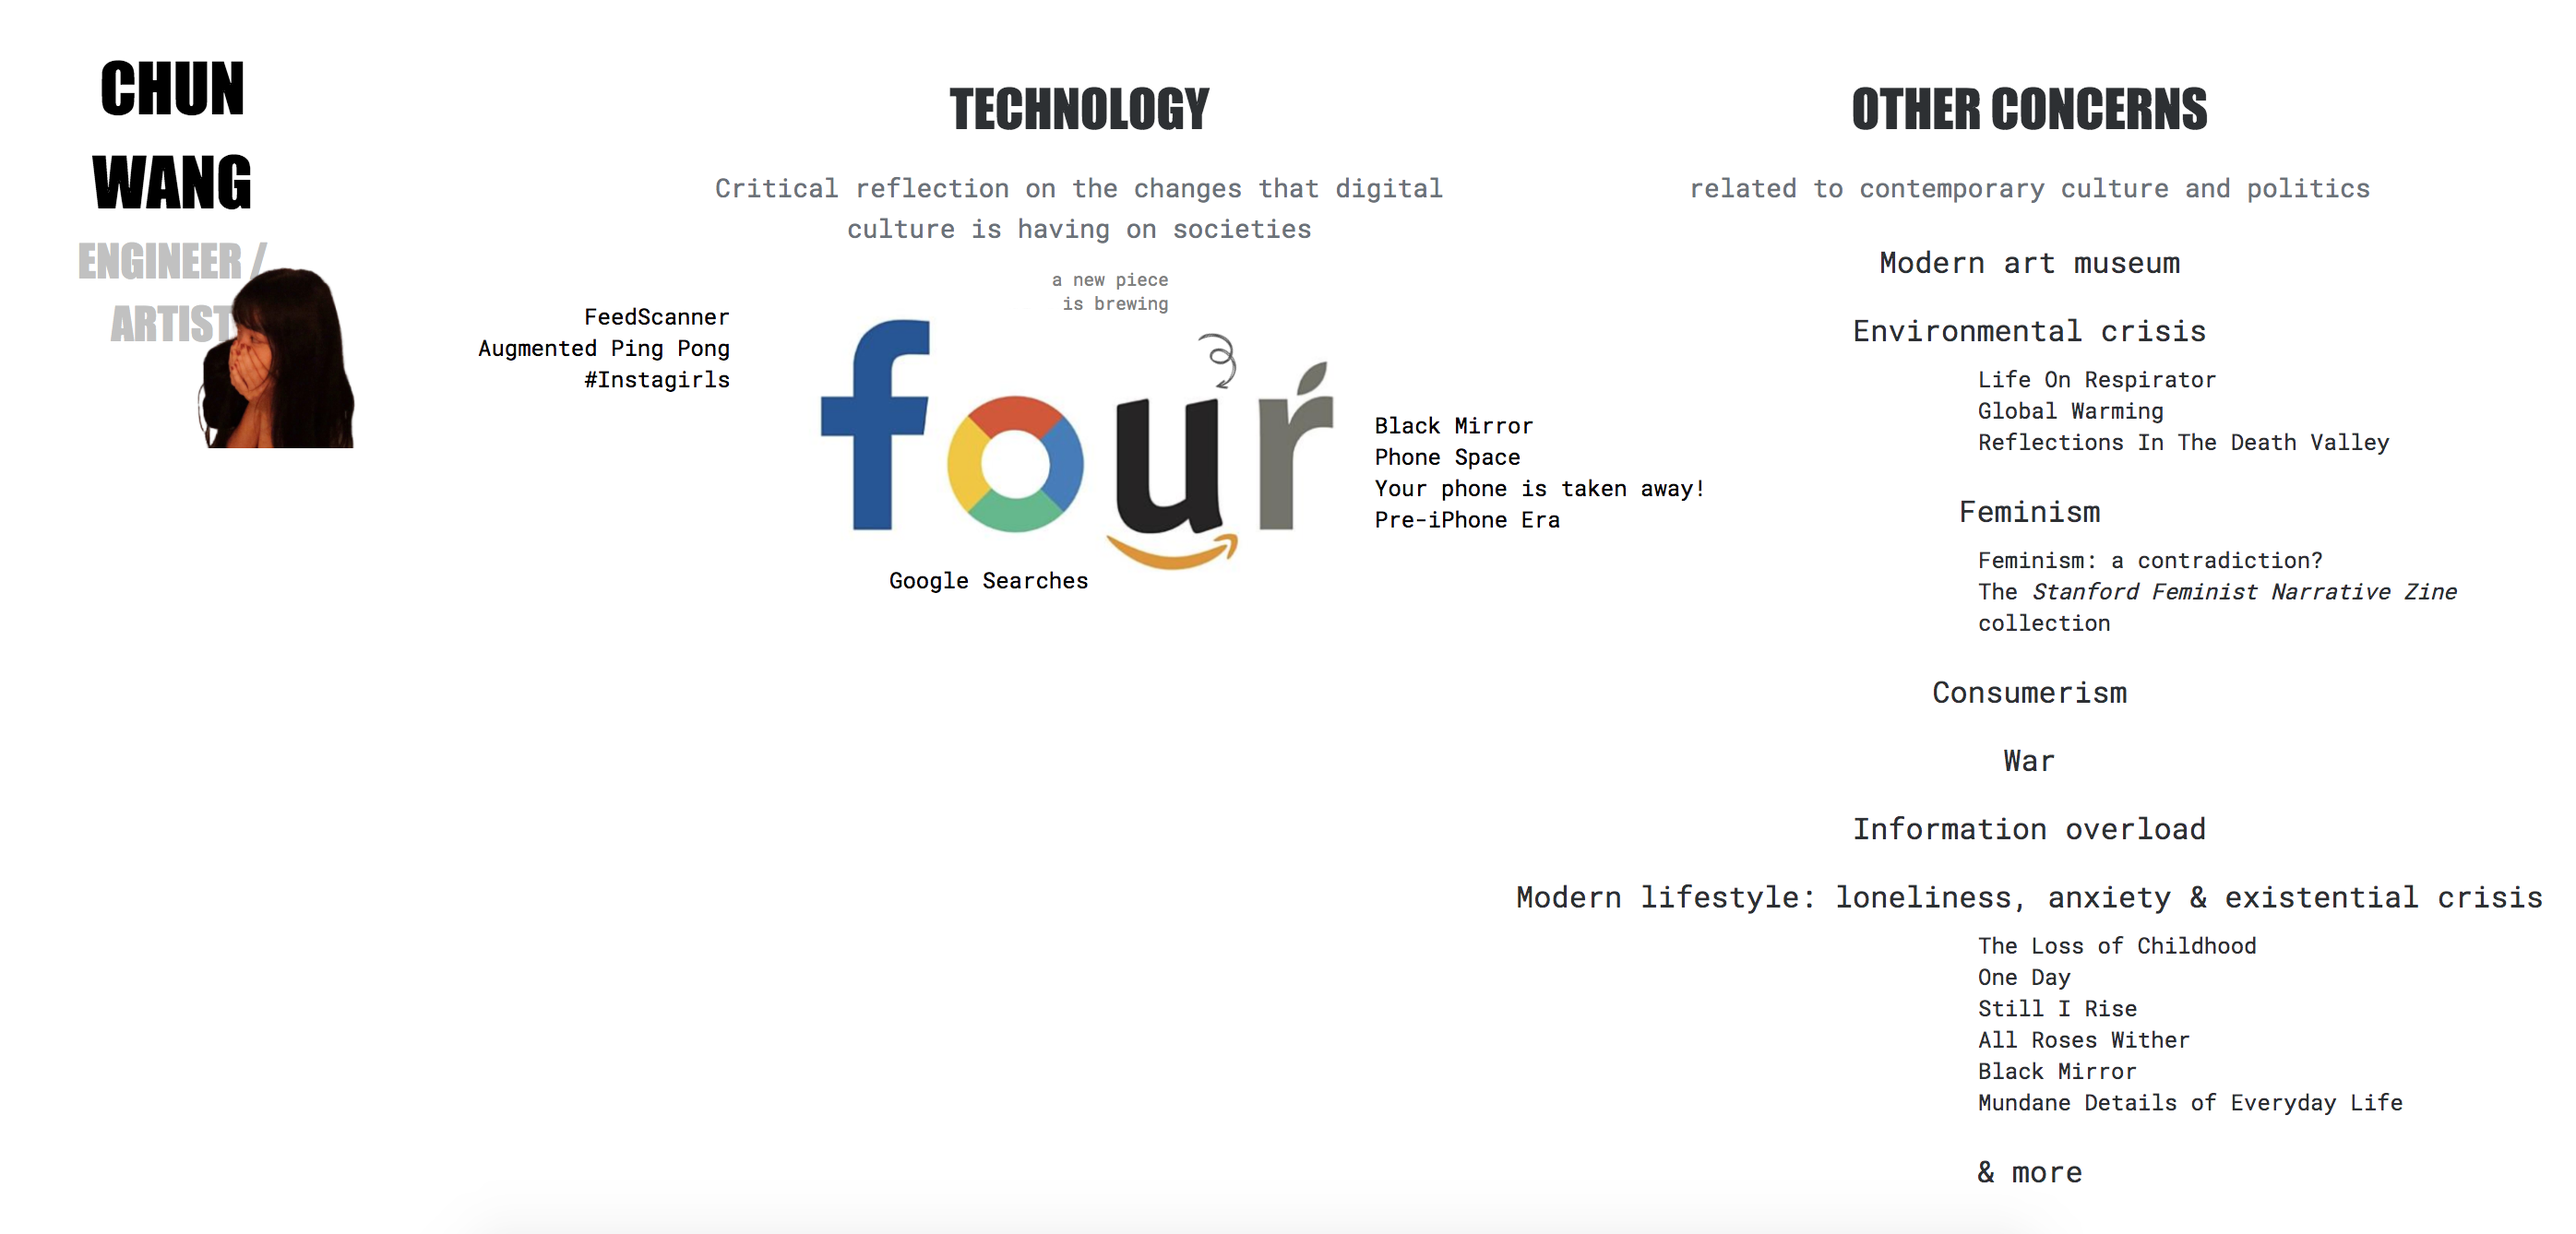
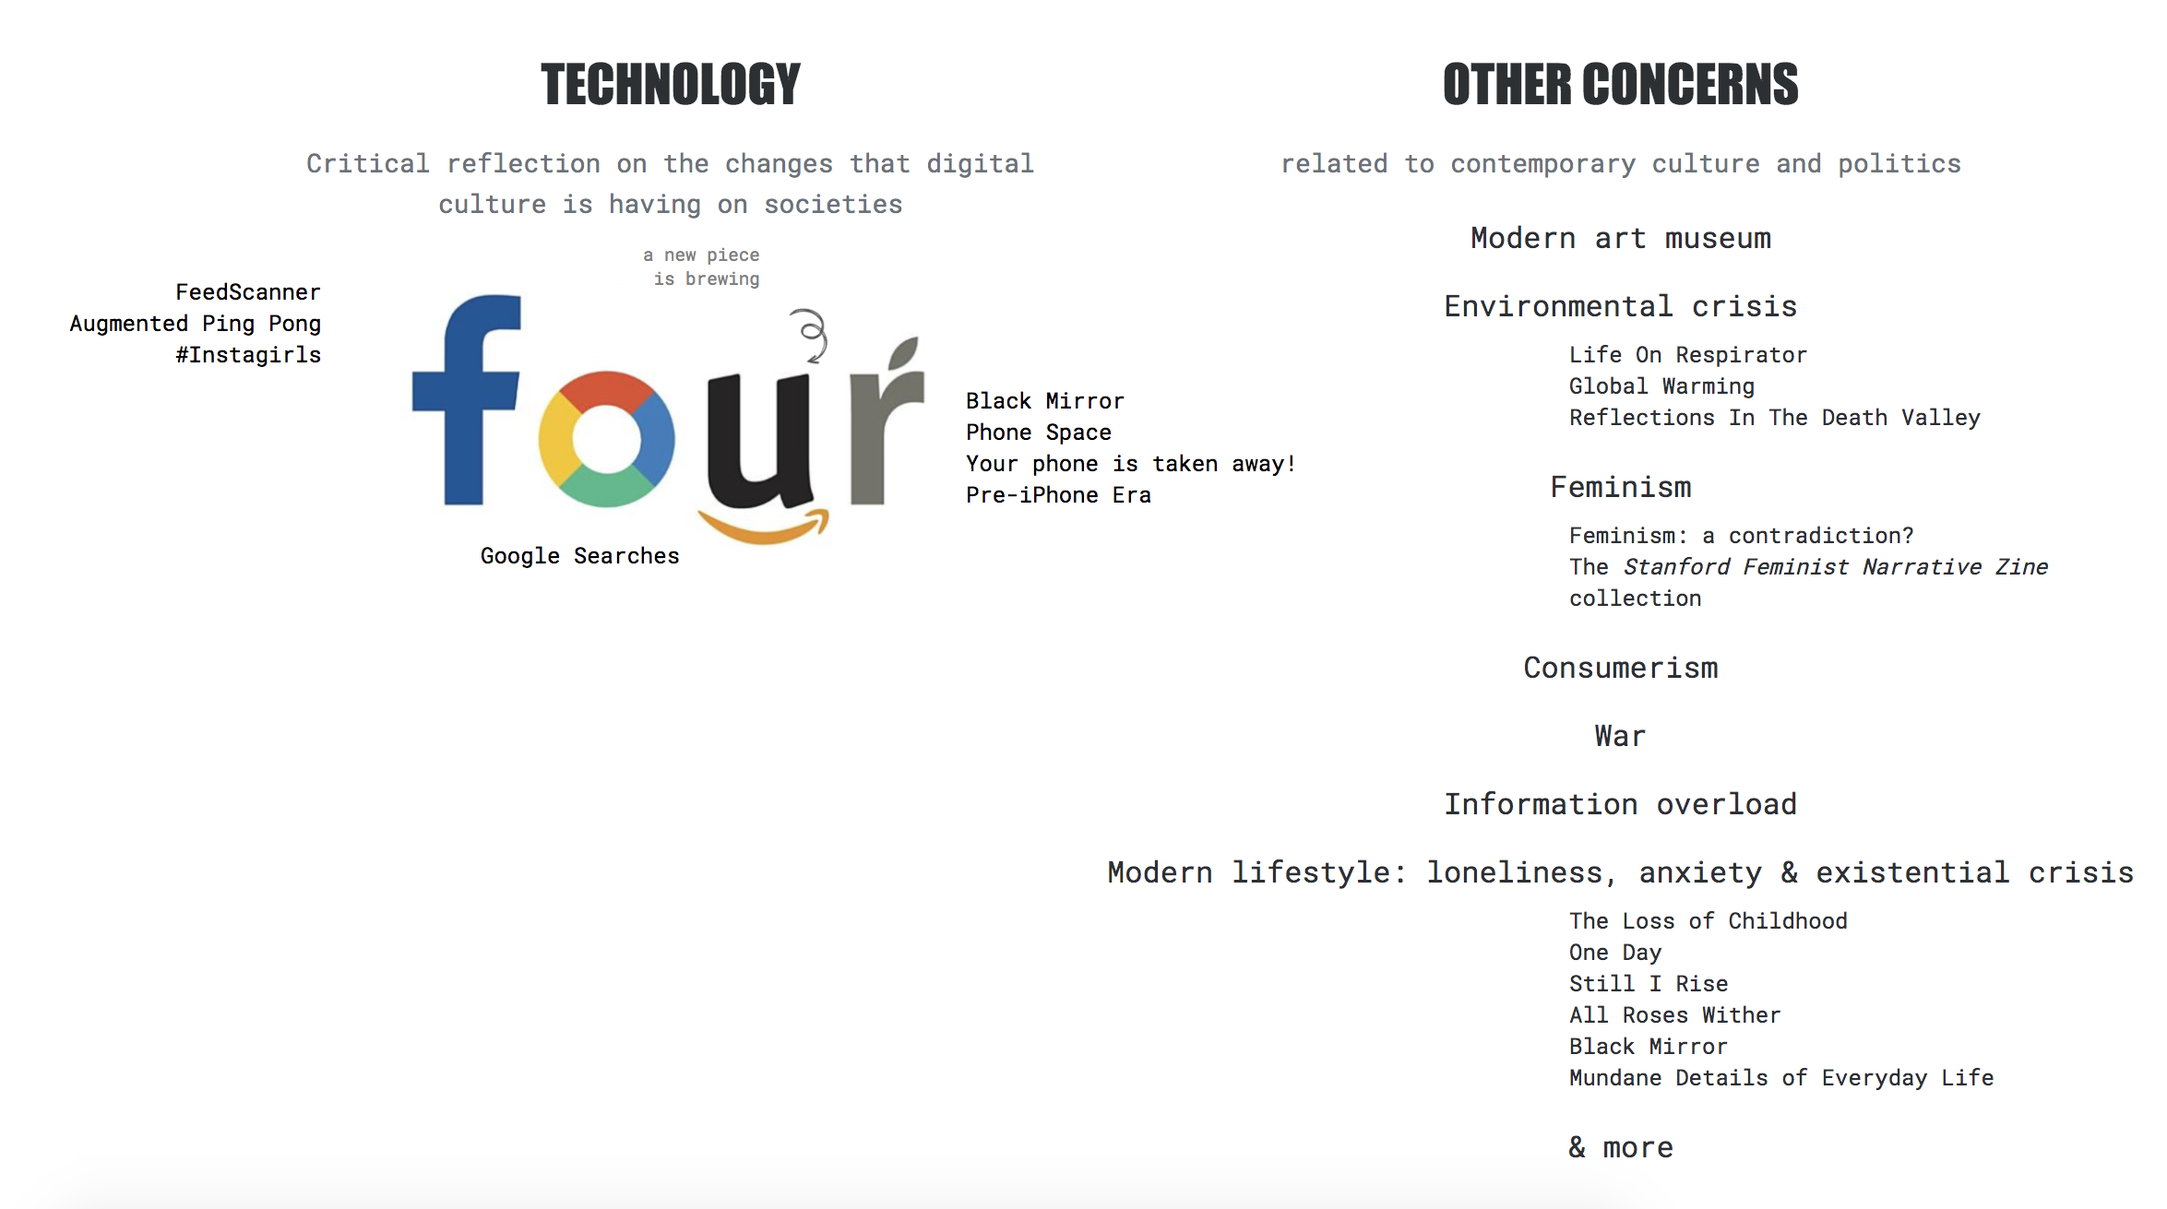
update quicklinks

diff --git a/index.html b/index.html
@@ -3,11 +3,11 @@
 	<head>
 		<meta charset="UTF-8" />
 		<meta name="viewport" content="width=device-width, initial-scale=1">
-		<title>Chun Wang</title>
+		<title>Chun Wang - Engineer / Artist</title>
 		<meta name="description" content="Chun Wang Portfolio" />
 		<meta name="keywords" content="art, design, project, portfolio" />
 		<meta name="author" content="Codrops" />
-		<link rel="shortcut icon" href="favicon.ico">
+		<link rel="shortcut icon" href="favicon2.ico">
 		<link rel="stylesheet" type="text/css" href="css/base.css" />
 		<link rel="stylesheet" type="text/css" href="css/main.css" />
 		<script>document.documentElement.className="js";var supportsCssVars=function(){var e,t=document.createElement("style");return t.innerHTML="root: { --tmp-var: bold; }",document.head.appendChild(t),e=!!(window.CSS&&window.CSS.supports&&window.CSS.supports("font-weight","var(--tmp-var)")),t.parentNode.removeChild(t),e};supportsCssVars()||alert("Please view this demo in a modern browser that supports CSS Variables.");</script>
@@ -27,17 +27,56 @@
 				<path d="M16.3,0C7.3,0,0,7.3,0,16.3c0,7.2,4.7,13.3,11.1,15.5c0.8,0.1,1.1-0.4,1.1-0.8c0-0.4,0-1.4,0-2.8c-4.5,1-5.5-2.2-5.5-2.2c-0.7-1.9-1.8-2.4-1.8-2.4c-1.5-1,0.1-1,0.1-1c1.6,0.1,2.5,1.7,2.5,1.7c1.5,2.5,3.8,1.8,4.7,1.4c0.1-1.1,0.6-1.8,1-2.2c-3.6-0.4-7.4-1.8-7.4-8.1c0-1.8,0.6-3.2,1.7-4.4C7.4,10.7,6.8,9,7.7,6.8c0,0,1.4-0.4,4.5,1.7c1.3-0.4,2.7-0.5,4.1-0.5c1.4,0,2.8,0.2,4.1,0.5c3.1-2.1,4.5-1.7,4.5-1.7c0.9,2.2,0.3,3.9,0.2,4.3c1,1.1,1.7,2.6,1.7,4.4c0,6.3-3.8,7.6-7.4,8c0.6,0.5,1.1,1.5,1.1,3c0,2.2,0,3.9,0,4.5c0,0.4,0.3,0.9,1.1,0.8c6.5-2.2,11.1-8.3,11.1-15.5C32.6,7.3,25.3,0,16.3,0z"/>
 			</symbol>
 		</svg>
+
+        <!--
+        <div class="back-to-top">
+            <a class="codrops-icon codrops-icon--arrow" href="#works" title="Enter chunwang.me">
+                <svg class="icon icon--arrow"><use xlink:href="#icon-arrow"></use></svg>
+            </a>
+            <h1 class="codrops-header__title">Top</h1>
+        </div>
+        -->
+
 		<main>
 			<div class="content">
 				<header class="codrops-header">
-					<div class="codrops-links">
-						<a class="codrops-icon codrops-icon--arrow" target="_blank" href="https://chunwang.me" title="Enter chunwang.me"><svg class="icon icon--arrow"><use xlink:href="#icon-arrow"></use></svg></a>
+
+
+					<h1 class="codrops-header__title">About Chun</h1>
+                    <div class="codrops-links about-chun">
+						<a class="codrops-icon codrops-icon--arrow" href="#about" title="Enter chunwang.me">
+							<svg class="icon icon--arrow"><use xlink:href="#icon-arrow"></use></svg>
+						</a>
 					</div>
-					<h1 class="codrops-header__title">Chun Wang</h1>
+
+
+					<h1 class="codrops-header__title">Works by theme</h1>
+                    <div class="codrops-links themes">
+						<a class="codrops-icon codrops-icon--arrow" href="#theme" title="Enter chunwang.me">
+							<svg class="icon icon--arrow"><use xlink:href="#icon-arrow"></use></svg>
+						</a>
+					</div>
+
+
+					<h1 class="codrops-header__title">Re.fuse</h1>
+                    <div class="codrops-links refuse">
+						<a class="codrops-icon codrops-icon--arrow" target="_blank" href="http://www.re-fuse.co/" title="Enter chunwang.me">
+							<svg class="icon icon--arrow"><use xlink:href="#icon-arrow"></use></svg>
+						</a>
+					</div>
+
+
+					<h1 class="codrops-header__title">More about Chun </h1>
+                    <div class="codrops-links more-about-chun">
+						<a class="codrops-icon codrops-icon--arrow" target="_blank" href="https://chunwang.me" title="Enter chunwang.me">
+							<svg class="icon icon--arrow"><use xlink:href="#icon-arrow"></use></svg>
+						</a>
+					</div>
+
 				</header>
 			</div>
 			<div class="content">
-				<div class="content__section">
+				<div class="content__section" id="works">
 					<div class="content__main">
 						<span>Chun Wang</span>
 						<span>Portfolio/</span>
@@ -80,12 +119,12 @@
 					<a class="content__link" href="http://chunw.github.io/lost" target="_blank"><img class="content__img" src="img/lost.gif" alt="img"/></a>
 					<h2 class="content__text">Lost</h2>
 				</div>
-				<div class="content__section">
+				<div class="content__section" id="theme">
 					<a class="content__link" href="http://chunw.github.io/nav" target="_blank"><img class="content__img" style="" src="img/nav.png" alt="img"/></a>
 					<h2 class="content__text">Works by theme<br>(click image)</h2>
 				</div>
 
-				<div class="content__section">
+				<div class="content__section" id="about">
 					<a class="content__link" href="https://www.chunwang.me" target="_blank"><img class="content__img" src="img/chun.png" alt="img"/></a>
 					<h2 class="content__text">About</h2>
 				</div>
@@ -93,7 +132,6 @@
 				<div class="content__section">
 					<h2 class="content__text">Contact</h2>
 					<div class="content__contact">
-						<a href="https://www.chunwang.me" target="_blank">www.chunwang.me</a>
 						<a href="mailto:chunwang.me@gmail.com" target="_top">chunwang.me'at'gmail.com</a>
 						<a href="https://www.linkedin.com/in/chun-wang/" target="_blank">LinkedIn</a>
 						<a href="https://www.instagram.com/chunwang.art/" target="_blank">Instagram</a>

diff --git a/css/main.css b/css/main.css
@@ -26,3 +26,31 @@
 	width: calc(6vmax - 1.5rem);
 	background: var(--color-link);
 }
+
+.back-to-top {
+	z-index: 9999;
+	position: absolute;
+	bottom: 2vw;
+	right: 2vw;
+	text-align: center;
+}
+
+.back-to-top a {
+	transform: rotate(90deg);
+}
+
+.codrops-links.about-chun a {
+	transform: rotate(270deg);
+}
+
+.codrops-links.themes a {
+	transform: rotate(270deg);
+}
+
+.codrops-links.refuse a {
+	transform: rotate(135deg);
+}
+
+.codrops-links.more-about-chun a {
+	transform: rotate(135deg);
+}

diff --git a/css/base.css b/css/base.css
@@ -122,7 +122,6 @@ main {
 	font-size: 1em;
 	font-weight: bold;
 	margin: 0;
-	padding: 0 1em;
 }
 
 .codrops-links {
@@ -131,6 +130,7 @@ main {
 	justify-content: center;
 	text-align: center;
 	white-space: nowrap;
+	padding-right: 1.5em;
 }
 
 .codrops-icon {
